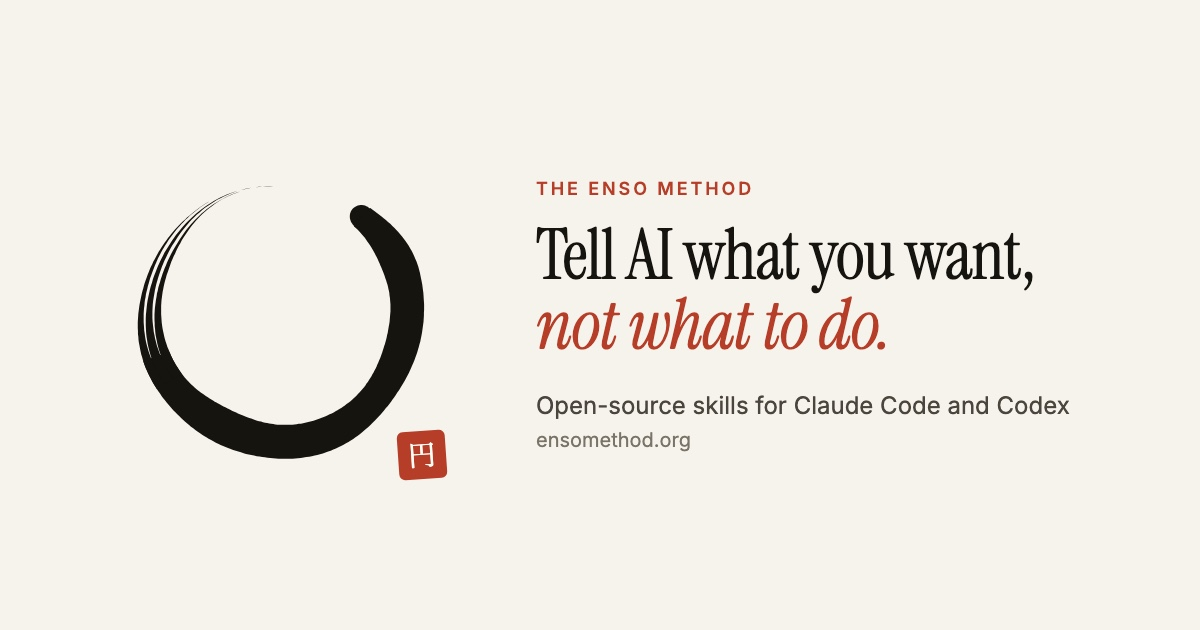
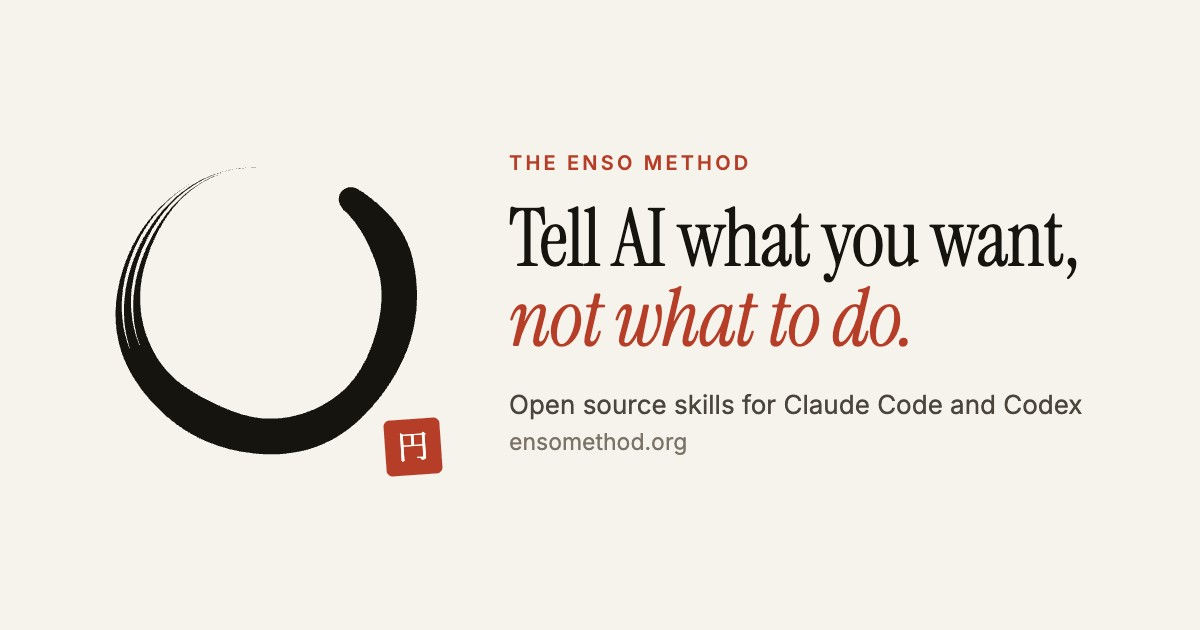
docs: describe 95%+ business calls as decided without being declared; "open source" unhyphenated
How it works now says a business question at 95% or more is decided and
never declared, because listing every near-certain call would bury the few
that need a person. "Open-source" becomes "open source" in the README, the
marketplace description and the README banner, re-rendered.

diff --git a/README.md b/README.md
@@ -1,5 +1,5 @@
 <p align="center">
-  <a href="https://ensomethod.org"><img src="docs/assets/enso-method-banner.jpg" alt="The Enso Method: tell AI what you want, not what to do. Open-source skills for Claude Code and Codex." width="720"></a>
+  <a href="https://ensomethod.org"><img src="docs/assets/enso-method-banner.jpg" alt="The Enso Method: tell AI what you want, not what to do. Open source skills for Claude Code and Codex." width="720"></a>
 </p>
 
 <p align="center">
@@ -14,7 +14,7 @@
 **Tell AI what you want, not what to do.**
 
 The Enso Method is a way of building production software with AI coding agents, and the
-open-source agent skills for Claude Code and Codex that carry it out. You describe what you
+open source agent skills for Claude Code and Codex that carry it out. You describe what you
 want in plain language. The method turns it into a PRD, a technical design and a plan,
 researches every open question and answers it or writes it down as an assumption, and then
 the agents build it, phase after phase, while your attention goes elsewhere. The

diff --git a/docs/how-the-enso-method-works.md b/docs/how-the-enso-method-works.md
@@ -47,7 +47,7 @@ These documents colocate inside `docs/prds/{prd-name}/` (a program) or `docs/cha
 
 | Confidence | Action |
 |-----------|--------|
-| **95%+** | Just do it, whatever the impact — no need to document or ask |
+| **95%+** | Decide and proceed, whatever the impact. Nobody is asked and nothing is declared: listing every near-certain call would bury the few that need a person |
 | **Below 95%** | Proceed on the best answer, and document it as an assumption for stakeholder review, at its honest confidence |
 | **No answer to put forward** | Stop and ask — only when the evidence favors none of the options (in practice, a best answer under roughly 20%) |
 
